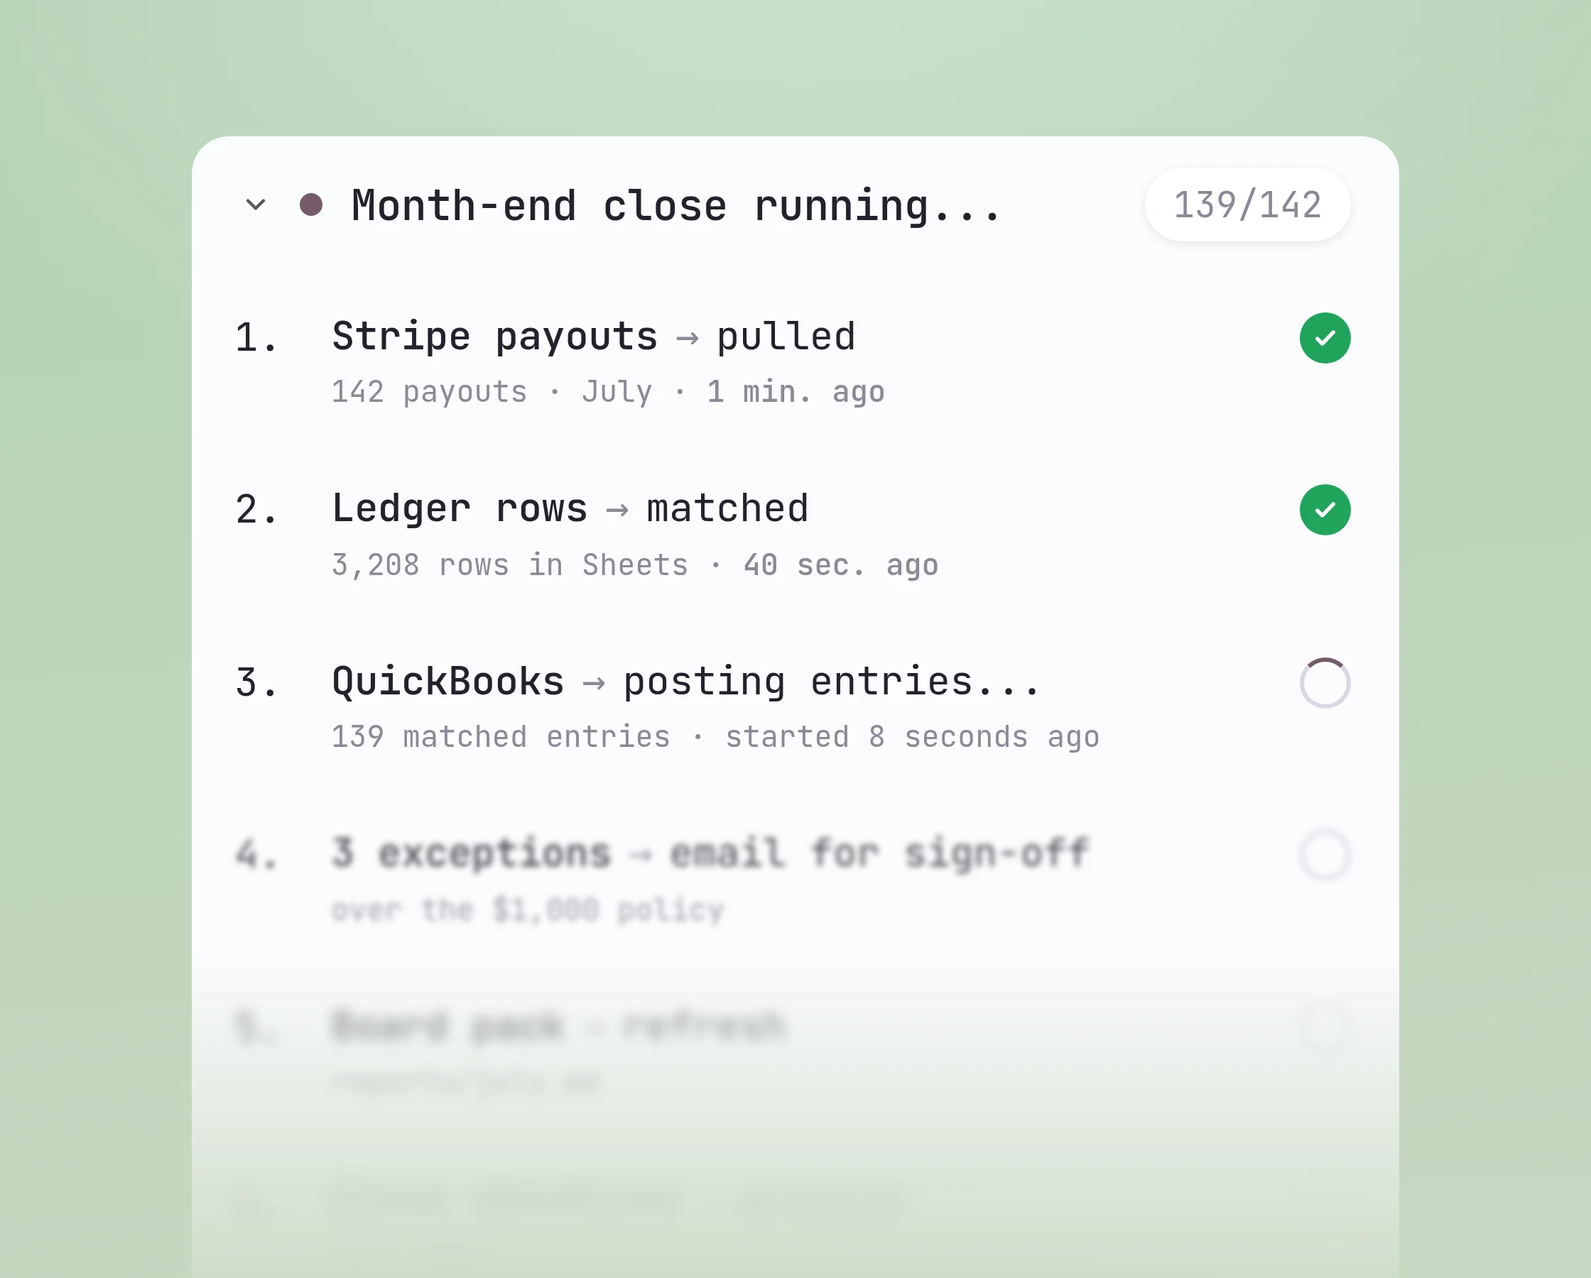
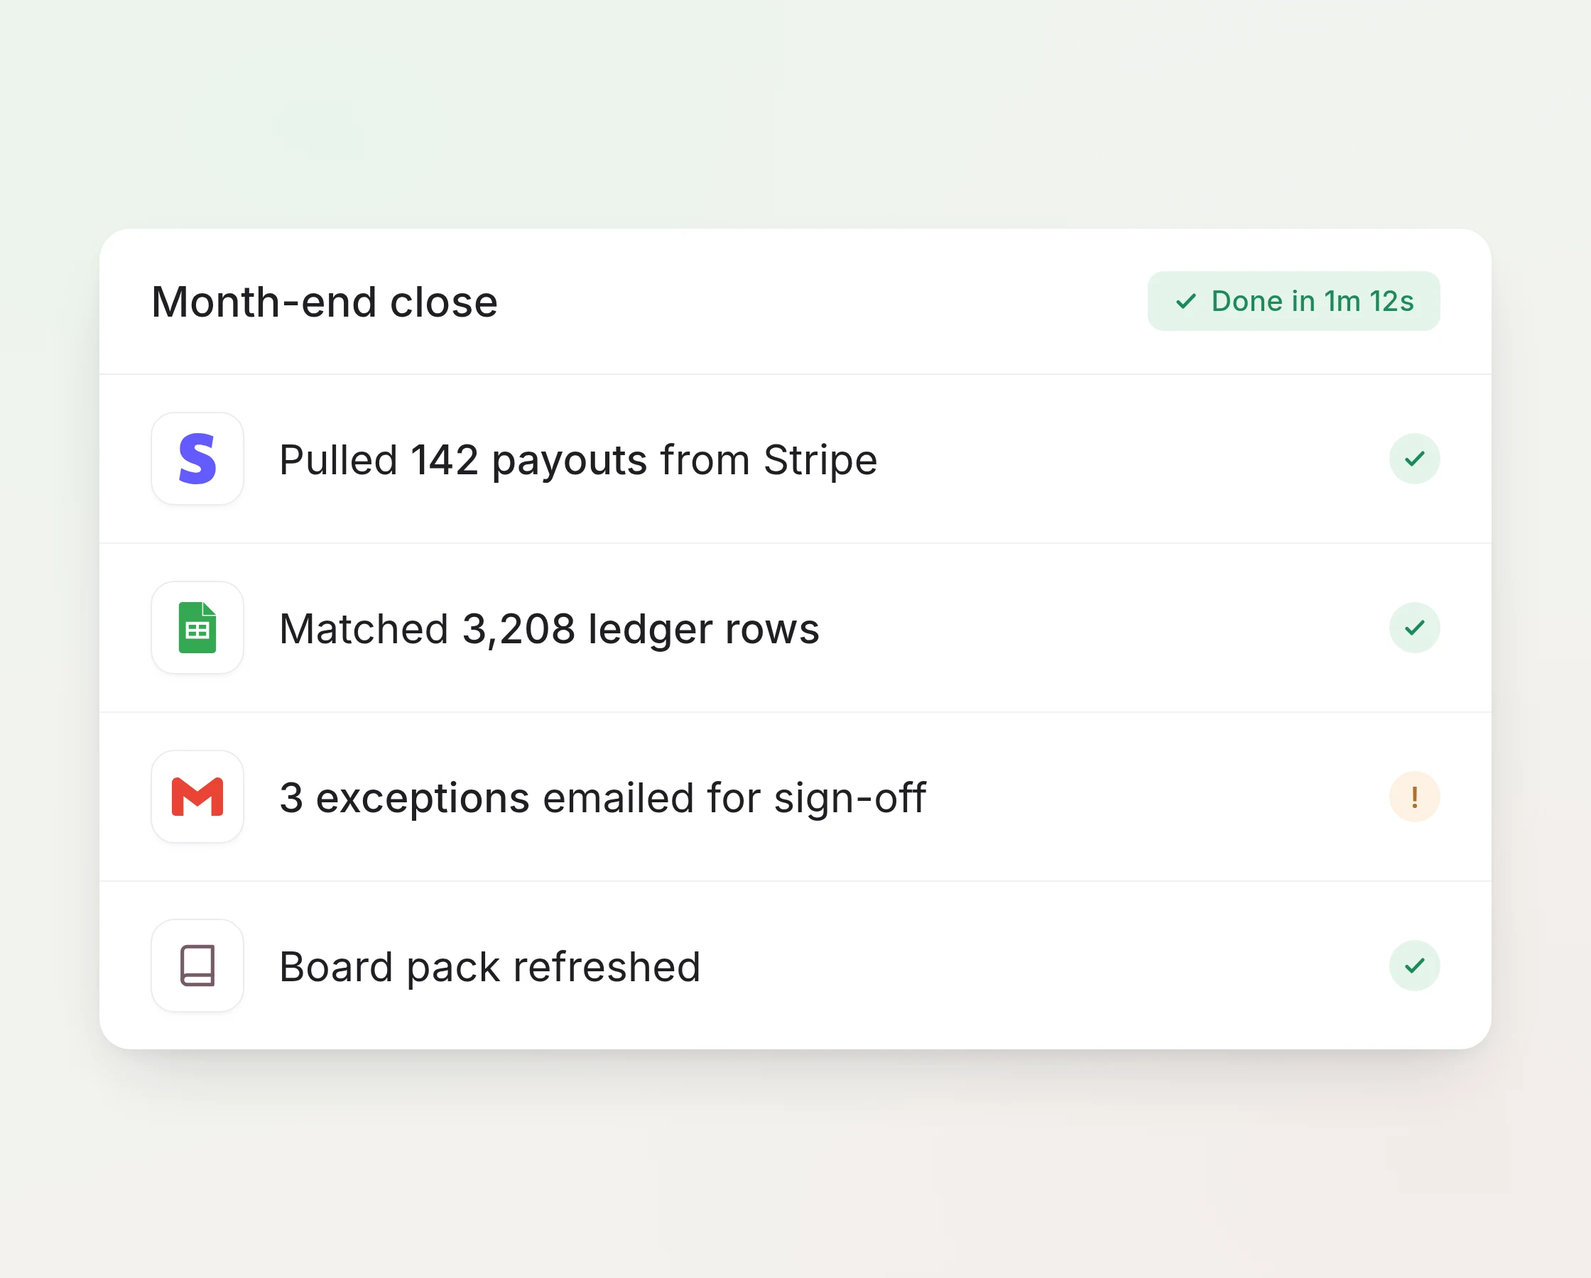
revert(solutions): restore the approved home department illustrations
An outside push (4762a6c, 'solutions rev 3') replaced the four
Finance/Sales/CE/People illustrations Krishna had signed off on with a
1:1 ci-migration-style clone treatment, without approval. Krishna asked
for the approved set back. Restores public/brand/solutions/*.webp and
art-src/sol-*.html to their 5d8591e state (the pastel checklist /
pill-cascade version): Finance month-end checklist, Sales call->notes->
follow-up->sent cascade, CE incident log, People screening pills.

diff --git a/art-src/sol-people.html b/art-src/sol-people.html
@@ -1,11 +1,35 @@
-<!DOCTYPE html><html lang="en"><head><meta charset="utf-8"><link rel="stylesheet" href="_ona.css"></head><body>
-<div class="stage cv-blush"><div class="card">
-<div class="hd"><span class="hd__chev"><svg viewBox="0 0 24 24" fill="none" stroke="currentColor" stroke-width="2.4" stroke-linecap="round" stroke-linejoin="round"><path d="M6 9l6 6 6-6"/></svg></span><span class="hd__dot"></span><span class="hd__t">Screening applicants...</span><span class="hd__n">58/62</span></div>
-<div class="rows">
-<div class="r"><span class="r__n">1.</span><span class="r__b"><div class="r__t">Maya Patel<span class="arr">→</span><span class="to">shortlisted</span></div><div class="r__m">92 on the scorecard · 6 yrs SaaS AE</div></span><span class="st st--ok"><svg viewBox="0 0 24 24" fill="none" stroke="currentColor" stroke-width="3.6" stroke-linecap="round" stroke-linejoin="round"><path d="M4.5 12.8l4.6 4.6L19.5 6.6"/></svg></span></div>
-<div class="r"><span class="r__n">2.</span><span class="r__b"><div class="r__t">Jordan Lee<span class="arr">→</span><span class="to">shortlisted</span></div><div class="r__m">88 · 4 yrs fintech AE</div></span><span class="st st--ok"><svg viewBox="0 0 24 24" fill="none" stroke="currentColor" stroke-width="3.6" stroke-linecap="round" stroke-linejoin="round"><path d="M4.5 12.8l4.6 4.6L19.5 6.6"/></svg></span></div>
-<div class="r"><span class="r__n">3.</span><span class="r__b"><div class="r__t">Priya Nair<span class="arr">→</span><span class="to">grading...</span></div><div class="r__m">résumé + portfolio · started 5 seconds ago</div></span><span class="st st--run"></span></div>
-<div class="r r--b1"><span class="r__n">4.</span><span class="r__b"><div class="r__t">R. Okafor<span class="arr">→</span><span class="to">queued</span></div><div class="r__m">applied 2 hours ago</div></span><span class="st st--q"></span></div>
-<div class="r r--b2"><span class="r__n">5.</span><span class="r__b"><div class="r__t">T. Ishida<span class="arr">→</span><span class="to">queued</span></div><div class="r__m">applied 3 hours ago</div></span><span class="st st--q"></span></div>
-<div class="r r--b3"><span class="r__n">6.</span><span class="r__b"><div class="r__t">M. Laurent<span class="arr">→</span><span class="to">queued</span></div><div class="r__m">applied yesterday</div></span><span class="st st--q"></span></div>
-</div></div></div></body></html>
+<!DOCTYPE html><html><head><meta charset="utf-8"><link rel="stylesheet" href="_shared.css"><style>
+  .stage{background:
+    radial-gradient(85% 70% at 16% 12%, #f7eae8 0%, rgba(247,234,232,0) 62%),
+    radial-gradient(90% 80% at 90% 90%, #f1ecf5 0%, rgba(241,236,245,0) 60%),
+    linear-gradient(165deg,#f6efed 0%,#f4f1f3 100%);}
+  .pill{position:absolute;left:70px;width:560px;display:flex;align-items:center;gap:22px;background:#fff;
+        border-radius:24px;padding:24px 30px;font-size:27px;font-weight:480;
+        box-shadow:0 18px 44px -18px rgba(31,30,35,.16),0 4px 12px -4px rgba(31,30,35,.07)}
+  .p1{top:104px}.p2{top:254px}.p3{top:404px}
+  .pic{width:58px;height:58px;border-radius:15px;background:#f6eff3;color:#755a68;
+       display:flex;align-items:center;justify-content:center;flex:none}
+  .pic svg{width:29px;height:29px}
+  .pill .st{margin-left:auto;flex:none}
+  .short{position:absolute;right:40px;top:378px;width:470px}
+  .short .hd{padding:24px 30px}
+  .short .hd__t{font-size:26px}
+  .srow{display:flex;align-items:center;gap:18px;padding:19px 30px;border-bottom:1px solid #f3f1f5;font-size:24px}
+  .srow:last-child{border-bottom:0}
+  .av{width:52px;height:52px;border-radius:50%;overflow:hidden;flex:none;background:#eee}
+  .av img{width:100%;height:100%;display:block}
+  .sc{margin-left:auto;font-weight:480;font-variant-numeric:tabular-nums;font-size:26px}
+  .meta{color:#9a95a0;font-size:19px;margin-top:2px}
+</style></head><body><div class="stage">
+  <div class="pill p1"><span class="pic"><svg viewBox="0 0 24 24" fill="none" stroke="currentColor" stroke-width="1.9" stroke-linecap="round" stroke-linejoin="round"><path d="M14 2H6a2 2 0 0 0-2 2v16a2 2 0 0 0 2 2h12a2 2 0 0 0 2-2V8z"/><path d="M14 2v6h6M8 13h8M8 17h5"/></svg></span>Screened 62 résumés<span class="st tick"><svg viewBox="0 0 24 24" fill="none" stroke="currentColor" stroke-width="3.2" stroke-linecap="round" stroke-linejoin="round"><path d="M4.5 12.8l4.6 4.6L19.5 6.6"/></svg></span></div>
+  <div class="pill p2"><span class="pic"><svg viewBox="0 0 24 24" fill="none" stroke="currentColor" stroke-width="1.9" stroke-linecap="round" stroke-linejoin="round"><path d="M9 11l3 3L22 4"/><path d="M21 12v7a2 2 0 0 1-2 2H5a2 2 0 0 1-2-2V5a2 2 0 0 1 2-2h11"/></svg></span>Graded on the scorecard<span class="st tick"><svg viewBox="0 0 24 24" fill="none" stroke="currentColor" stroke-width="3.2" stroke-linecap="round" stroke-linejoin="round"><path d="M4.5 12.8l4.6 4.6L19.5 6.6"/></svg></span></div>
+  <div class="pill p3"><span class="pic"><svg viewBox="0 0 24 24" fill="none" stroke="currentColor" stroke-width="1.9" stroke-linecap="round" stroke-linejoin="round"><rect x="3" y="4" width="18" height="18" rx="2"/><path d="M16 2v4M8 2v4M3 10h18"/></svg></span>Booking the interviews…<span class="st" style="width:26px;height:26px;border-radius:50%;border:3px solid #d9d3dc;border-top-color:#755a68"></span></div>
+  <div class="card short">
+    <div class="hd"><span class="hd__t">AE shortlist</span><span class="tag tag--ok" style="margin-left:auto;font-size:18px;padding:7px 14px">5 of 62</span></div>
+    <div>
+      <div class="srow"><span class="av"><img src="https://randomuser.me/api/portraits/women/44.jpg"></span><span>Maya Patel<div class="meta">6 yrs SaaS AE</div></span><span class="sc">92</span></div>
+      <div class="srow"><span class="av"><img src="https://randomuser.me/api/portraits/men/64.jpg"></span><span>Jordan Lee<div class="meta">4 yrs fintech AE</div></span><span class="sc">88</span></div>
+      <div class="srow"><span class="av"><img src="https://randomuser.me/api/portraits/women/17.jpg"></span><span>Priya Nair<div class="meta">Interview · Thu 2:00 PM</div></span><span class="sc">86</span></div>
+    </div>
+  </div>
+</div></body></html>

diff --git a/art-src/sol-ce.html b/art-src/sol-ce.html
@@ -1,11 +1,27 @@
-<!DOCTYPE html><html lang="en"><head><meta charset="utf-8"><link rel="stylesheet" href="_ona.css"></head><body>
-<div class="stage cv-peri"><div class="card">
-<div class="hd"><span class="hd__chev"><svg viewBox="0 0 24 24" fill="none" stroke="currentColor" stroke-width="2.4" stroke-linecap="round" stroke-linejoin="round"><path d="M6 9l6 6 6-6"/></svg></span><span class="hd__dot"></span><span class="hd__t">Fixing INC-1043...</span><span class="hd__n">3/5</span></div>
-<div class="rows">
-<div class="r"><span class="r__n">1.</span><span class="r__b"><div class="r__t">checkout-service 500s<span class="arr">→</span><span class="to">cause found</span></div><div class="r__m">divide-by-zero · main.go:236 · <b>2 min. ago</b></div></span><span class="st st--ok"><svg viewBox="0 0 24 24" fill="none" stroke="currentColor" stroke-width="3.6" stroke-linecap="round" stroke-linejoin="round"><path d="M4.5 12.8l4.6 4.6L19.5 6.6"/></svg></span></div>
-<div class="r"><span class="r__n">2.</span><span class="r__b"><div class="r__t">PR #4471<span class="arr">→</span><span class="to">opened</span></div><div class="r__m">guard + regression test · <b>1 min. ago</b></div></span><span class="st st--ok"><svg viewBox="0 0 24 24" fill="none" stroke="currentColor" stroke-width="3.6" stroke-linecap="round" stroke-linejoin="round"><path d="M4.5 12.8l4.6 4.6L19.5 6.6"/></svg></span></div>
-<div class="r"><span class="r__n">3.</span><span class="r__b"><div class="r__t">Rollback<span class="arr">→</span><span class="to">deploying...</span></div><div class="r__m">to v2.47.3 · started 20 seconds ago</div></span><span class="st st--run"></span></div>
-<div class="r r--b1"><span class="r__n">4.</span><span class="r__b"><div class="r__t">Status note<span class="arr">→</span><span class="to">send to Vertex</span></div><div class="r__m">drafted, awaiting deploy</div></span><span class="st st--q"></span></div>
-<div class="r r--b2"><span class="r__n">5.</span><span class="r__b"><div class="r__t">Post-mortem<span class="arr">→</span><span class="to">file to Linear</span></div><div class="r__m">ENG-1043</div></span><span class="st st--q"></span></div>
-<div class="r r--b3"><span class="r__n">6.</span><span class="r__b"><div class="r__t">Runbook<span class="arr">→</span><span class="to">update</span></div><div class="r__m">docs/incidents.md</div></span><span class="st st--q"></span></div>
-</div></div></div></body></html>
+<!DOCTYPE html><html><head><meta charset="utf-8"><link rel="stylesheet" href="_shared.css"><style>
+  .stage{background:
+    radial-gradient(85% 70% at 18% 10%, #e9ecf8 0%, rgba(233,236,248,0) 62%),
+    radial-gradient(90% 80% at 90% 92%, #f0ecf4 0%, rgba(240,236,244,0) 60%),
+    linear-gradient(165deg,#eef0f7 0%,#f3f1f3 100%);}
+  .main{position:absolute;left:50%;top:50%;transform:translate(-50%,-50%);width:1000px;padding-bottom:14px}
+  .lg{display:flex;align-items:center;gap:22px;padding:21px 36px;font-size:26px}
+  .lg .ts{color:#9a95a0;font-variant-numeric:tabular-nums;flex:none;width:132px;font-size:23px}
+  .lg em{font-style:normal;font-weight:500;color:#1f1e23}
+  .lg .bad{color:#c2493f;font-weight:500}
+  .lg .ok{color:#1f8a5b;font-weight:500}
+  .lgic{width:40px;height:40px;border-radius:11px;background:#fff;border:1px solid #eeebf0;
+        display:flex;align-items:center;justify-content:center;flex:none}
+  .lgic img{width:24px;height:24px}
+  .fade{-webkit-mask:linear-gradient(180deg,#000 82%,transparent 100%);mask:linear-gradient(180deg,#000 82%,transparent 100%)}
+</style></head><body><div class="stage">
+  <div class="card main fade">
+    <div class="hd"><span class="hd__t">checkout-service · incident</span><span class="tag tag--run" style="margin-left:auto">Cass on call</span></div>
+    <div class="mono" style="padding:12px 0 20px">
+      <div class="lg"><span class="ts">12:18</span><span class="lgic"><svg width="22" height="22" viewBox="0 0 24 24" fill="none" stroke="#c2493f" stroke-width="2" stroke-linecap="round" stroke-linejoin="round"><path d="M10.29 3.86L1.82 18a2 2 0 0 0 1.71 3h16.94a2 2 0 0 0 1.71-3L13.71 3.86a2 2 0 0 0-3.42 0z"/><path d="M12 9v4M12 17h.01"/></svg></span><span><span class="bad">spike detected</span> · 500s &gt; 5%</span></div>
+      <div class="lg"><span class="ts">12:21</span><span class="lgic"><svg width="22" height="22" viewBox="0 0 24 24" fill="none" stroke="#755a68" stroke-width="2" stroke-linecap="round"><circle cx="11" cy="11" r="7"/><path d="M21 21l-4.35-4.35"/></svg></span><span>cause found: <em>divide-by-zero · main.go:236</em></span></div>
+      <div class="lg"><span class="ts">12:24</span><span class="lgic"><img src="live/assets/github.svg"></span><span>PR <em>#4471</em> opened · guard + test</span></div>
+      <div class="lg"><span class="ts">12:41</span><span class="lgic"><svg width="22" height="22" viewBox="0 0 24 24" fill="none" stroke="#1f8a5b" stroke-width="2.4" stroke-linecap="round" stroke-linejoin="round"><path d="M4.5 12.8l4.6 4.6L19.5 6.6"/></svg></span><span>rollback deployed · <span class="ok">resolved</span></span></div>
+      <div class="lg"><span class="ts">12:44</span><span class="lgic"><img src="live/assets/linear.svg"></span><span>post-mortem filed · <em>ENG-1043</em></span></div>
+    </div>
+  </div>
+</div></body></html>

diff --git a/art-src/sol-finance.html b/art-src/sol-finance.html
@@ -1,11 +1,21 @@
-<!DOCTYPE html><html lang="en"><head><meta charset="utf-8"><link rel="stylesheet" href="_ona.css"></head><body>
-<div class="stage cv-sage"><div class="card">
-<div class="hd"><span class="hd__chev"><svg viewBox="0 0 24 24" fill="none" stroke="currentColor" stroke-width="2.4" stroke-linecap="round" stroke-linejoin="round"><path d="M6 9l6 6 6-6"/></svg></span><span class="hd__dot"></span><span class="hd__t">Month-end close running...</span><span class="hd__n">139/142</span></div>
-<div class="rows">
-<div class="r"><span class="r__n">1.</span><span class="r__b"><div class="r__t">Stripe payouts<span class="arr">→</span><span class="to">pulled</span></div><div class="r__m">142 payouts · July · <b>1 min. ago</b></div></span><span class="st st--ok"><svg viewBox="0 0 24 24" fill="none" stroke="currentColor" stroke-width="3.6" stroke-linecap="round" stroke-linejoin="round"><path d="M4.5 12.8l4.6 4.6L19.5 6.6"/></svg></span></div>
-<div class="r"><span class="r__n">2.</span><span class="r__b"><div class="r__t">Ledger rows<span class="arr">→</span><span class="to">matched</span></div><div class="r__m">3,208 rows in Sheets · <b>40 sec. ago</b></div></span><span class="st st--ok"><svg viewBox="0 0 24 24" fill="none" stroke="currentColor" stroke-width="3.6" stroke-linecap="round" stroke-linejoin="round"><path d="M4.5 12.8l4.6 4.6L19.5 6.6"/></svg></span></div>
-<div class="r"><span class="r__n">3.</span><span class="r__b"><div class="r__t">QuickBooks<span class="arr">→</span><span class="to">posting entries...</span></div><div class="r__m">139 matched entries · started 8 seconds ago</div></span><span class="st st--run"></span></div>
-<div class="r r--b1"><span class="r__n">4.</span><span class="r__b"><div class="r__t">3 exceptions<span class="arr">→</span><span class="to">email for sign-off</span></div><div class="r__m">over the $1,000 policy</div></span><span class="st st--q"></span></div>
-<div class="r r--b2"><span class="r__n">5.</span><span class="r__b"><div class="r__t">Board pack<span class="arr">→</span><span class="to">refresh</span></div><div class="r__m">reports/july.md</div></span><span class="st st--q"></span></div>
-<div class="r r--b3"><span class="r__n">6.</span><span class="r__b"><div class="r__t">Close checklist<span class="arr">→</span><span class="to">archive</span></div><div class="r__m">July 2026</div></span><span class="st st--q"></span></div>
-</div></div></div></body></html>
+<!DOCTYPE html><html><head><meta charset="utf-8"><link rel="stylesheet" href="_shared.css"><style>
+  .stage{background:
+    radial-gradient(85% 70% at 20% 10%, #eaf4ec 0%, rgba(234,244,236,0) 60%),
+    radial-gradient(90% 80% at 90% 90%, #f2ece9 0%, rgba(242,236,233,0) 60%),
+    linear-gradient(165deg,#f0f5f0 0%,#f4f1ee 100%);}
+  .main{position:absolute;left:50%;top:50%;transform:translate(-50%,-50%);width:980px}
+  .row{display:flex;align-items:center;gap:24px;padding:26px 36px;border-bottom:1px solid #f3f1f5}
+  .row:last-child{border-bottom:0}
+  .row__l{font-size:29px;flex:1;letter-spacing:.002em}
+  .row__l em{font-style:normal;font-weight:480}
+</style></head><body><div class="stage">
+  <div class="card main">
+    <div class="hd"><span class="hd__t">Month-end close</span><span class="tag tag--ok" style="margin-left:auto"><svg width="18" height="18" viewBox="0 0 24 24" fill="none" stroke="currentColor" stroke-width="3.2" stroke-linecap="round" stroke-linejoin="round"><path d="M4.5 12.8l4.6 4.6L19.5 6.6"/></svg>Done in 1m 12s</span></div>
+    <div>
+      <div class="row"><span class="ic"><img src="live/assets/stripe.svg"></span><span class="row__l">Pulled <em>142 payouts</em> from Stripe</span><span class="tick"><svg viewBox="0 0 24 24" fill="none" stroke="currentColor" stroke-width="3.2" stroke-linecap="round" stroke-linejoin="round"><path d="M4.5 12.8l4.6 4.6L19.5 6.6"/></svg></span></div>
+      <div class="row"><span class="ic"><img src="live/assets/googlesheets.svg"></span><span class="row__l">Matched <em>3,208 ledger rows</em></span><span class="tick"><svg viewBox="0 0 24 24" fill="none" stroke="currentColor" stroke-width="3.2" stroke-linecap="round" stroke-linejoin="round"><path d="M4.5 12.8l4.6 4.6L19.5 6.6"/></svg></span></div>
+      <div class="row"><span class="ic"><img src="live/assets/gmail.svg"></span><span class="row__l"><em>3 exceptions</em> emailed for sign-off</span><span class="warn">!</span></div>
+      <div class="row"><span class="ic"><svg viewBox="0 0 24 24" fill="none" stroke="#755a68" stroke-width="1.9" stroke-linecap="round" stroke-linejoin="round"><path d="M4 19.5A2.5 2.5 0 0 1 6.5 17H20"/><path d="M6.5 2H20v20H6.5A2.5 2.5 0 0 1 4 19.5v-15A2.5 2.5 0 0 1 6.5 2z"/></svg></span><span class="row__l">Board pack refreshed</span><span class="tick"><svg viewBox="0 0 24 24" fill="none" stroke="currentColor" stroke-width="3.2" stroke-linecap="round" stroke-linejoin="round"><path d="M4.5 12.8l4.6 4.6L19.5 6.6"/></svg></span></div>
+    </div>
+  </div>
+</div></body></html>

diff --git a/art-src/sol-sales.html b/art-src/sol-sales.html
@@ -1,11 +1,19 @@
-<!DOCTYPE html><html lang="en"><head><meta charset="utf-8"><link rel="stylesheet" href="_ona.css"></head><body>
-<div class="stage cv-lav"><div class="card">
-<div class="hd"><span class="hd__chev"><svg viewBox="0 0 24 24" fill="none" stroke="currentColor" stroke-width="2.4" stroke-linecap="round" stroke-linejoin="round"><path d="M6 9l6 6 6-6"/></svg></span><span class="hd__dot"></span><span class="hd__t">Follow-ups in progress...</span><span class="hd__n">3/6</span></div>
-<div class="rows">
-<div class="r"><span class="r__n">1.</span><span class="r__b"><div class="r__t">Meridian Health<span class="arr">→</span><span class="to">follow-up sent</span></div><div class="r__m">Pricing recap + SOC 2 · <b>1 min. ago</b></div></span><span class="st st--ok"><svg viewBox="0 0 24 24" fill="none" stroke="currentColor" stroke-width="3.6" stroke-linecap="round" stroke-linejoin="round"><path d="M4.5 12.8l4.6 4.6L19.5 6.6"/></svg></span></div>
-<div class="r"><span class="r__n">2.</span><span class="r__b"><div class="r__t">Brightline<span class="arr">→</span><span class="to">follow-up sent</span></div><div class="r__m">Pricing nudge · <b>30 sec. ago</b></div></span><span class="st st--ok"><svg viewBox="0 0 24 24" fill="none" stroke="currentColor" stroke-width="3.6" stroke-linecap="round" stroke-linejoin="round"><path d="M4.5 12.8l4.6 4.6L19.5 6.6"/></svg></span></div>
-<div class="r"><span class="r__n">3.</span><span class="r__b"><div class="r__t">Coastal Freight<span class="arr">→</span><span class="to">drafting...</span></div><div class="r__m">from the call notes · started 10 seconds ago</div></span><span class="st st--run"></span></div>
-<div class="r r--b1"><span class="r__n">4.</span><span class="r__b"><div class="r__t">Northwind<span class="arr">→</span><span class="to">queued</span></div><div class="r__m">stalled 21 days · next up</div></span><span class="st st--q"></span></div>
-<div class="r r--b2"><span class="r__n">5.</span><span class="r__b"><div class="r__t">Vertex<span class="arr">→</span><span class="to">queued</span></div><div class="r__m">stalled 24 days</div></span><span class="st st--q"></span></div>
-<div class="r r--b3"><span class="r__n">6.</span><span class="r__b"><div class="r__t">Atlas Freight<span class="arr">→</span><span class="to">queued</span></div><div class="r__m">stalled 30 days</div></span><span class="st st--q"></span></div>
-</div></div></div></body></html>
+<!DOCTYPE html><html><head><meta charset="utf-8"><link rel="stylesheet" href="_shared.css"><style>
+  .stage{background:
+    radial-gradient(85% 70% at 15% 12%, #efeaf6 0%, rgba(239,234,246,0) 62%),
+    radial-gradient(90% 80% at 92% 88%, #f5ecf1 0%, rgba(245,236,241,0) 60%),
+    linear-gradient(165deg,#f2eff5 0%,#f4f1f2 100%);}
+  .stk{position:absolute;left:50%;transform:translateX(-50%);width:880px;display:flex;align-items:center;gap:26px;padding:28px 34px}
+  .t{font-size:29px;font-weight:480}
+  .s{font-size:22px;color:#8b8791;margin-top:4px}
+  .tm{margin-left:auto;font-size:21px;color:#9a95a0;font-variant-numeric:tabular-nums;flex:none}
+  .c1{top:64px;opacity:.42;filter:blur(1px)}
+  .c2{top:258px;opacity:.72}
+  .c3{top:452px}
+  .c4{top:646px}
+</style></head><body><div class="stage">
+  <div class="card stk c1"><span class="ic"><svg viewBox="0 0 24 24" fill="none" stroke="#755a68" stroke-width="1.9" stroke-linecap="round" stroke-linejoin="round"><path d="M22 16.92v3a2 2 0 0 1-2.18 2 19.79 19.79 0 0 1-8.63-3.07 19.5 19.5 0 0 1-6-6 19.79 19.79 0 0 1-3.07-8.67A2 2 0 0 1 4.11 2h3a2 2 0 0 1 2 1.72c.127.96.361 1.903.7 2.81a2 2 0 0 1-.45 2.11L8.09 9.91a16 16 0 0 0 6 6l1.27-1.27a2 2 0 0 1 2.11-.45c.907.339 1.85.573 2.81.7A2 2 0 0 1 22 16.92z"/></svg></span><span><div class="t">Call with Meridian ends</div></span><span class="tm">11:32 AM</span></div>
+  <div class="card stk c2"><span class="ic"><img src="live/assets/hubspot.svg"></span><span><div class="t">Notes logged, deal stage updated</div><div class="s">No CRM homework tonight</div></span></div>
+  <div class="card stk c3"><span class="ic"><img src="live/assets/gmail.svg"></span><span><div class="t">Follow-up drafted from the call</div><div class="s">Pricing recap + the SOC 2 they asked for</div></span></div>
+  <div class="card stk c4"><span class="tick" style="width:66px;height:66px;border-radius:17px"><svg style="width:30px;height:30px" viewBox="0 0 24 24" fill="none" stroke="currentColor" stroke-width="3" stroke-linecap="round" stroke-linejoin="round"><path d="M4.5 12.8l4.6 4.6L19.5 6.6"/></svg></span><span><div class="t">Sent · next meeting booked</div><div class="s">Thursday 2:00 PM, brief ready before it</div></span></div>
+</div></body></html>
